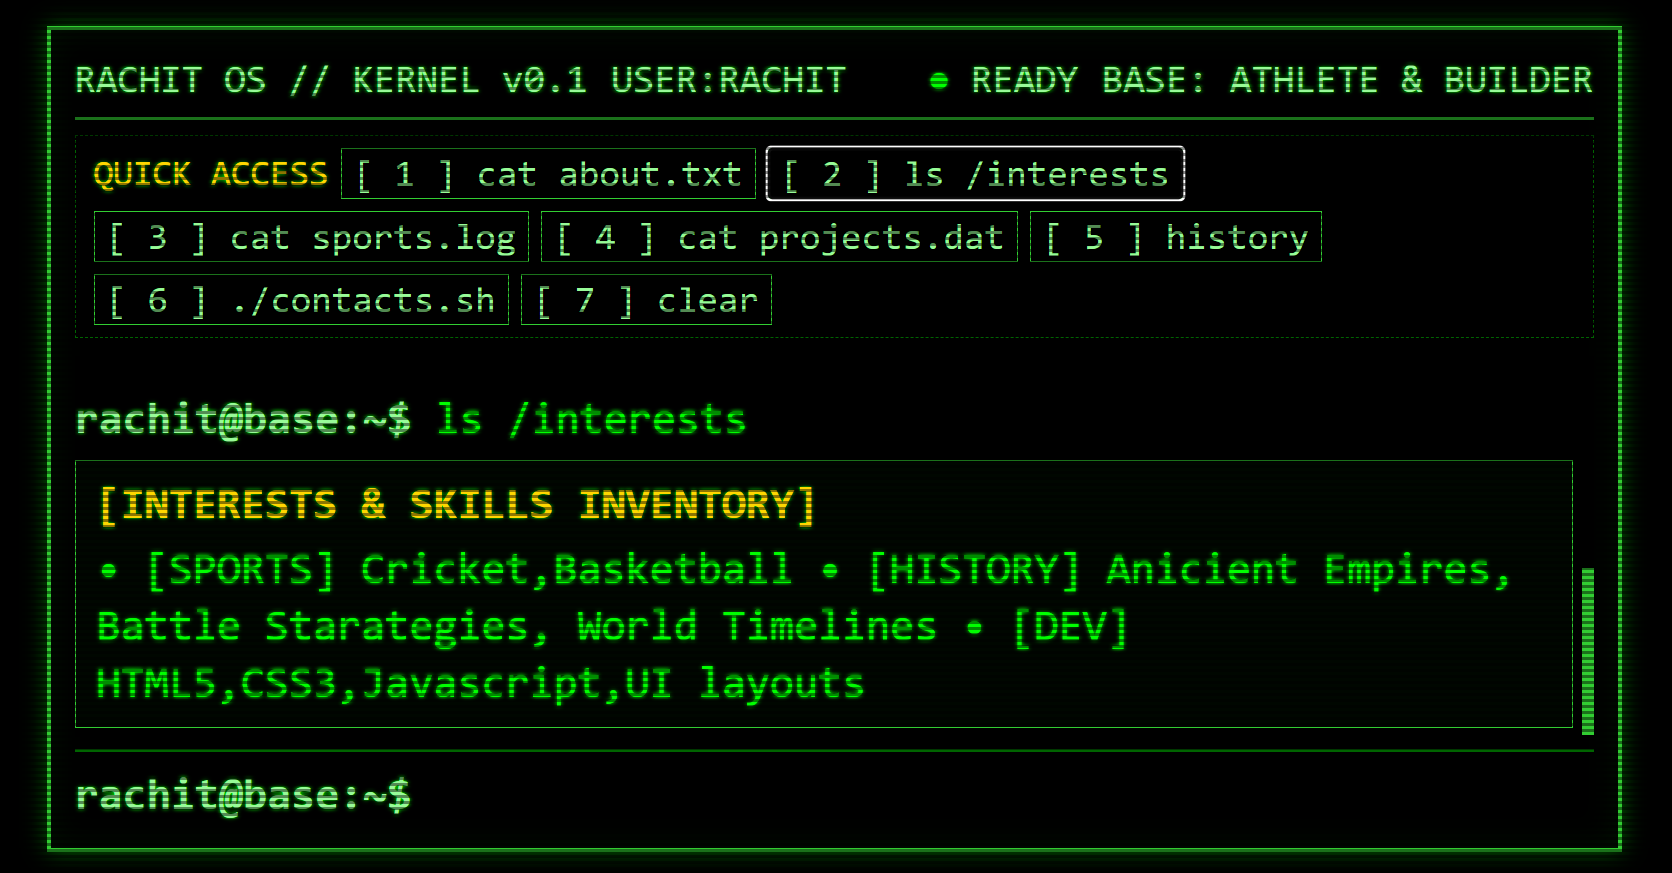
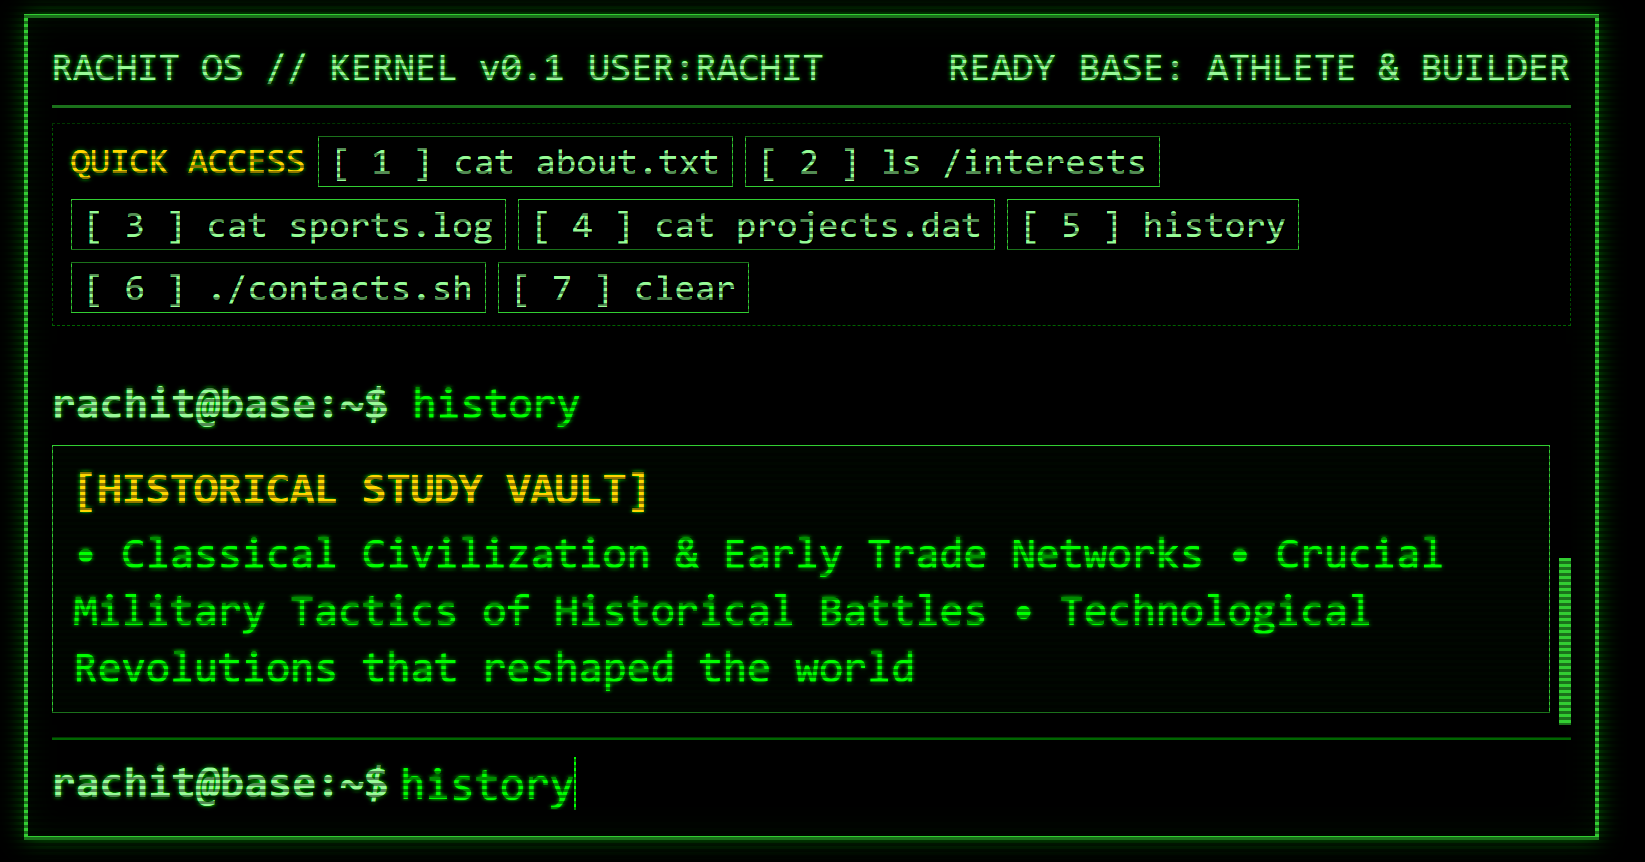
contact and project changes

Changed region(s): [[0.0, 0.0, 0.9921, 0.9954]]

diff --git a/pro.html b/pro.html
@@ -1,0 +1,56 @@
+<!DOCTYPE html>
+<html lang="en">
+<head>
+    <meta charset="UTF-8">
+    <meta name="viewport" content="width=device-width, initial-scale=1.0">
+    <title>RACHIT // Work In Progress</title>
+    <link rel="preconnect" href="https://fonts.googleapis.com">
+    <link rel="preconnect" href="https://fonts.gstatic.com" crossorigin>
+    <link rel="preconnect" href="https://fonts.googleapis.com/css2?family=VT323&display=swap" rel="stylesheet">
+    <link rel="stylesheet" href="CSS.css">
+</head>
+<body class="bios">
+    <div class="lines" aria-hidden="true"></div>
+    <div class="terminal" style="justify-content: center; align-items: center; text-align: center;">
+        
+        <header class="thead" style="width: 100%;">
+            <div class="hl">
+                <span class="sid">SYSTEM STATUS // 404_BUILD</span>
+            </div>
+            <div class="hr">
+                <span class="status-indicator"><span class="blinkdot">●</span> COMPILING</span>
+            </div>
+        </header>
+
+        <div class="panel-box" style="margin: auto; max-width: 600px; width: 100%; padding: 24px 16px;">
+            <pre class="ascii-banner" style="display: inline-block; text-align: left; margin-bottom: 16px;">
+   _______________
+  |  ___________  |     [!] NOTICE: SECTOR LOCKED
+  | |           | |     --------------------------
+  | |  >_<  WIP | |     ERROR 503: UNDER DEVELOPMENT
+  | |___________| |     --------------------------
+  |_______________|     ESTIMATED DEPLOYMENT: SOON
+      .-.-.   .-.-.
+     (  :  ) (  :  )
+            </pre>
+
+            <p style="color: var(--text-alert); font-size: 1.6rem; font-weight: bold; margin-bottom: 8px;">
+                &gt;&gt; WORK IN PROGRESS &lt;&lt;
+            </p>
+
+            <p style="color: var(--text-highlight); margin-bottom: 12px;">
+                SORRY! THIS APPLICATION IS CURRENTLY UNDER CONSTRUCTION.
+            </p>
+
+            <p style="color: var(--text-dim); font-size: 1.15rem; margin-bottom: 20px;">
+                The code repository and live deployment pipelines are currently being assembled.
+            </p>
+
+            <!-- Button to return to main terminal -->
+            <a href="index.html" class="retro-link" style="font-size: 1.25rem;">
+                &lt;&lt; RETURN TO MAINFRAME
+            </a>
+        </div>
+    </div>
+</body>
+</html>

diff --git a/responding.js b/responding.js
@@ -126,8 +126,8 @@ document.addEventListener('DOMContentLoaded',()=>{
         </div>
 
         <div class="project-actions">
-          <a href="https://github.com" target="_blank" rel="noopener noreferrer" class="retro-link">[ SOURCE CODE ↗ ]</a>
-          <a href="#" class="retro-link" onclick="alert('Launching live demo...'); return false;">[ LIVE DEMO ↗ ]</a>
+          <a href="pro.html" class="retro-link">[ SOURCE CODE ↗ ]</a>
+          <a href="pro.html" class="retro-link">[ LIVE DEMO ↗ ]</a>
         </div>
       </div>
 
@@ -146,7 +146,8 @@ document.addEventListener('DOMContentLoaded',()=>{
           <span class="badge">HISTORY ARCHIVE</span>
         </div>
         <div class="project-actions">
-          <a href="https://github.com" target="_blank" rel="noopener noreferrer" class="retro-link">[ SOURCE CODE ↗ ]</a>
+         
+          <a href="pro.html" class="retro-link">[ SOURCE CODE ↗ ]</a>
         </div>
       </div>`,
         
@@ -245,6 +246,7 @@ document.addEventListener('DOMContentLoaded',()=>{
           <p><strong>PAYLOAD :</strong> "${state.contactData.message}"</p>
           <br>
           <p style="color: var(--text-highlight);">&gt;&gt; STATUS 200 OK: Message dispatched to Rachit. Expect a reply soon!</p>
+          * NOTE: Real-time messaging feature coming soon currently i dont receive msgs as it does not have a real database.
         </div>
       `);
 
